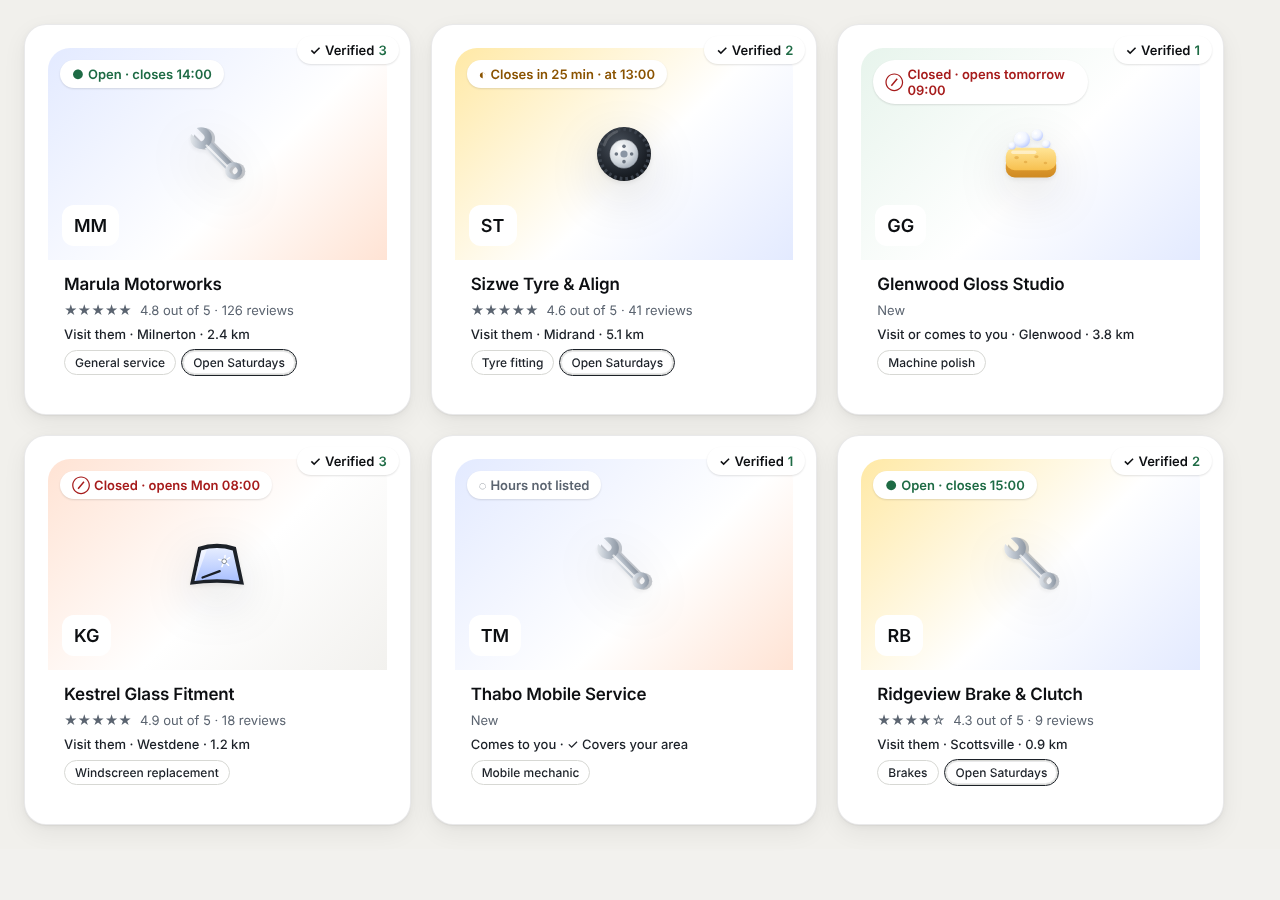
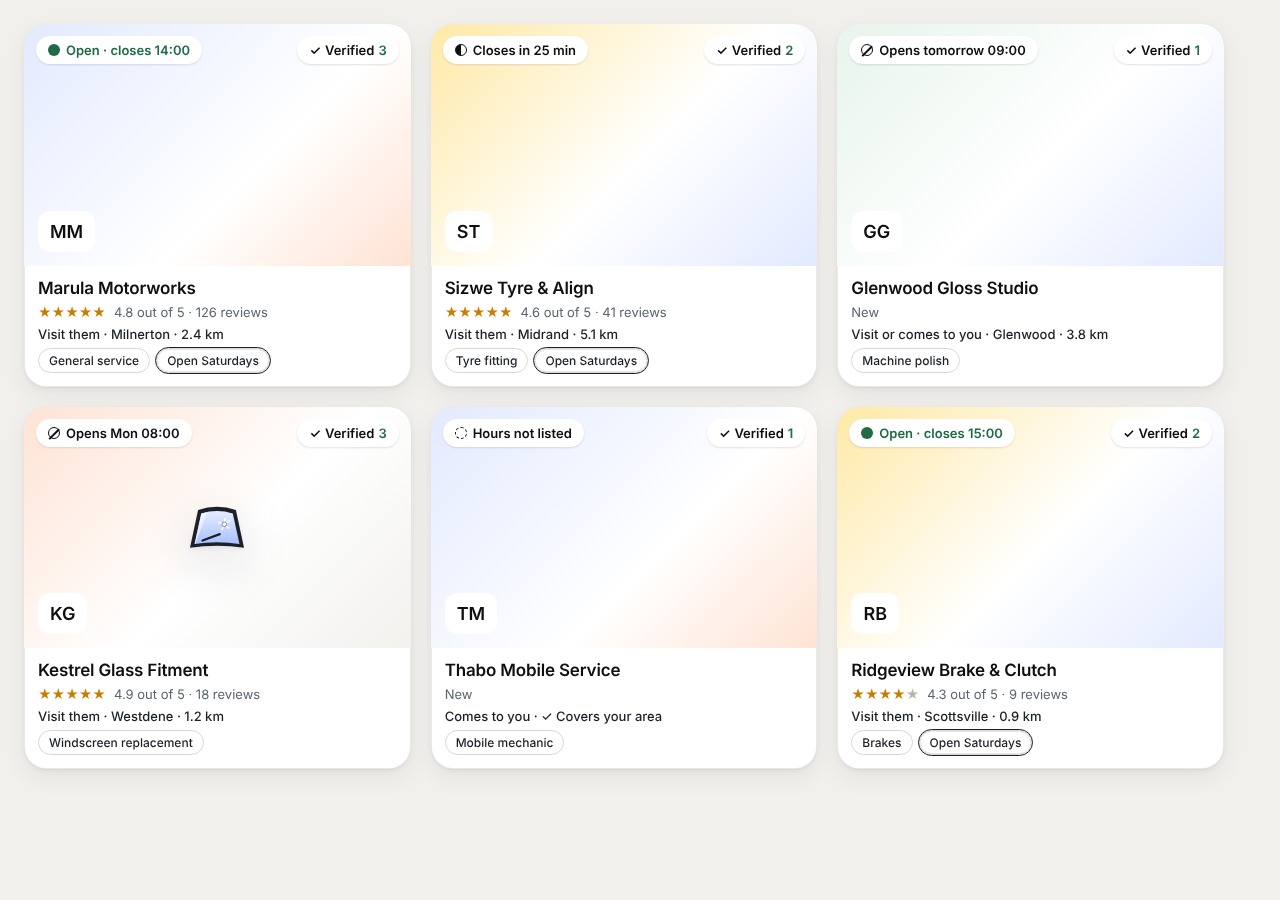
Listing card: Option A corrections from review
The photo runs edge to edge with the card's top radius, and the Verified
disclosure sits on the photo, top-right. Emoji artwork is gone: only the glass
line illustration is shown, other categories show the tint and initials. The
status stays on one line with shorter words and drawn 12 px markers (filled,
half, slashed, hollow). Filled stars are amber, the rest grey, and the body
padding is tighter.

Agent: claude

diff --git a/apps/web/app/sites/ListingCard.tsx b/apps/web/app/sites/ListingCard.tsx
@@ -41,7 +41,10 @@ function distanceText(listing: ListingSummary): string | null {
   return `${listing.distance_km.toFixed(1)} km`;
 }
 
-/** The status marker: a different shape per state, so colour is never the only cue. */
+/**
+ * The open status on the photo: a marker drawn as a shape (filled, half, slashed,
+ * hollow), then the words. Colour is never the only cue.
+ */
 function StatusPill({
   status,
   day,
@@ -49,13 +52,23 @@ function StatusPill({
   status: ReturnType<typeof cardStatus>;
   day: number;
 }) {
-  const kind = status.kind === "closing" ? "closing" : status.kind;
-  const marker = { open: "●", closing: "◐", closed: "⊘", none: "◌" }[kind];
   return (
-    <span className={`cx-openstate ${kind}`}>
-      <span aria-hidden="true">{marker}</span> {statusLabel(status, day)}
+    <span className={`cx-openstate ${status.kind}`}>
+      <span className="marker" aria-hidden="true" />
+      {statusLabel(status, day)}
     </span>
   );
+}
+
+/**
+ * The service artwork for a business without a photo. Only glass has a line
+ * illustration in the repo that matches the mockup; the others show the tint
+ * and initials until their illustrations are exported.
+ */
+export function illustrationFor(categorySlug: string): string | null {
+  const key = topCategoryOf(categorySlug)?.key;
+  if (key !== "glass") return null;
+  return SERVICES.find((s) => s.key === key)?.object ?? null;
 }
 
 /**
@@ -76,8 +89,7 @@ export function ListingCard({
   hours?: readonly HoursRow[];
   now?: Date;
 }) {
-  const key = topCategoryOf(listing.category_slug)?.key ?? "repairs";
-  const icon = SERVICES.find((s) => s.key === key)?.object ?? "";
+  const illustration = illustrationFor(listing.category_slug);
   const tint = tintFor(listing.public_id);
   const rating = reviewRatingText(listing);
   const status = cardStatus(hours, now);
@@ -105,7 +117,9 @@ export function ListingCard({
             />
           ) : (
             <>
-              <img className="obj" src={icon} alt="" />
+              {illustration ? (
+                <img className="obj" src={illustration} alt="" />
+              ) : null}
               <span className="initials" aria-hidden="true">
                 {initialsOf(listing.display_name)}
               </span>

diff --git a/apps/web/app/sites/listing-card.css b/apps/web/app/sites/listing-card.css
@@ -5,6 +5,7 @@
  */
 .cx-lcard {
   position: relative;
+  padding: 0;
   display: flex;
   flex-direction: column;
   border-radius: 22px;
@@ -111,25 +112,47 @@
 .cx-openstate {
   display: inline-flex;
   align-items: center;
-  gap: 4px;
+  gap: 6px;
+  max-width: 100%;
   padding: 6px 12px;
   border-radius: var(--radius-pill);
   background: var(--surface);
   box-shadow: 0 1px 2px rgba(13, 15, 18, 0.12);
   font: 600 13px var(--font-sans);
-  white-space: normal;
+  white-space: nowrap;
+  overflow: hidden;
+  text-overflow: ellipsis;
 }
-.cx-openstate.open {
-  color: var(--ok);
+.cx-openstate .marker {
+  flex: none;
+  width: 12px;
+  height: 12px;
+  border-radius: 50%;
+  box-sizing: border-box;
 }
-.cx-openstate.closing {
-  color: var(--warn);
+.cx-openstate.open .marker {
+  background: currentColor;
 }
-.cx-openstate.closed {
-  color: var(--err);
+.cx-openstate.closing .marker {
+  border: 1.5px solid currentColor;
+  background: linear-gradient(90deg, currentColor 50%, transparent 50%);
 }
-.cx-openstate.none {
-  color: var(--muted);
+.cx-openstate.closed .marker {
+  position: relative;
+  border: 1.5px solid currentColor;
+}
+.cx-openstate.closed .marker::after {
+  content: "";
+  position: absolute;
+  left: 50%;
+  top: -1px;
+  width: 1.5px;
+  height: 14px;
+  background: currentColor;
+  transform: translateX(-50%) rotate(45deg);
+}
+.cx-openstate.none .marker {
+  border: 1.5px dashed currentColor;
 }
 
 /* Verified: a disclosure, top-right, above the link. */
@@ -184,8 +207,8 @@
 /* Body: name, rating, where, then chips. */
 .cx-lcard .body {
   display: grid;
-  gap: 8px;
-  padding: 14px 16px 16px;
+  gap: 6px;
+  padding: 12px 14px 14px;
 }
 .cx-lcard h3 {
   margin: 0;
@@ -240,4 +263,12 @@
   overflow: hidden;
   clip: rect(0 0 0 0);
   white-space: nowrap;
+}
+
+/* Stars: amber for the filled ones, grey for the rest. */
+.rating-stars .on {
+  color: #c77d00;
+}
+.rating-stars .off {
+  color: #b8b4aa;
 }

diff --git a/apps/web/app/catalogue/card-status.test.ts b/apps/web/app/catalogue/card-status.test.ts
@@ -21,7 +21,7 @@ describe("card open status", () => {
     });
     const soon = cardStatus(WEEKDAYS, at("2026-11-26T16:35:00"));
     expect(soon).toEqual({ kind: "closing", closes: "17:00", minutesLeft: 25 });
-    expect(statusLabel(soon, 4)).toBe("Closes in 25 min · at 17:00");
+    expect(statusLabel(soon, 4)).toBe("Closes in 25 min");
   });
 
   it("works across midnight: closing at 23:59 counts as the end of the day", () => {
@@ -51,17 +51,17 @@ describe("card open status", () => {
       day: 1,
       today: false,
     });
-    expect(statusLabel(sunday, 7)).toBe("Closed · opens tomorrow 08:00");
+    expect(statusLabel(sunday, 7)).toBe("Opens tomorrow 08:00");
     // Friday evening: Monday is not tomorrow, so the weekday is named.
     const friday = cardStatus(monday, at("2026-11-27T18:00:00"));
-    expect(statusLabel(friday, 5)).toBe("Closed · opens Mon 08:00");
+    expect(statusLabel(friday, 5)).toBe("Opens Mon 08:00");
   });
 
   it("says 'today' before the day's opening, and 'tomorrow' after closing", () => {
     const after = cardStatus(WEEKDAYS, at("2026-11-26T18:00:00"));
-    expect(statusLabel(after, 4)).toBe("Closed · opens tomorrow 08:00");
+    expect(statusLabel(after, 4)).toBe("Opens tomorrow 08:00");
     const early = cardStatus(WEEKDAYS, at("2026-11-26T06:00:00"));
-    expect(statusLabel(early, 4)).toBe("Closed · opens today 08:00");
+    expect(statusLabel(early, 4)).toBe("Opens today 08:00");
   });
 
   it("is closed all day on a day with no hours, and opens on the next listed day", () => {

diff --git a/apps/web/app/catalogue/card-status.ts b/apps/web/app/catalogue/card-status.ts
@@ -55,17 +55,20 @@ export function cardStatus(hours: readonly HoursRow[], now: Date): CardStatus {
   return { kind: "none" };
 }
 
-/** The words on the card: "Open · closes 17:30", "Closes in 25 min · at 13:00". */
+/**
+ * The words on the card, kept short so the status stays on one line:
+ * "Open · closes 17:30", "Closes in 25 min", "Opens tomorrow 09:00", "Opens Mon 08:00".
+ */
 export function statusLabel(status: CardStatus, day: number): string {
   if (status.kind === "open") return `Open · closes ${status.closes}`;
   if (status.kind === "closing")
-    return `Closes in ${String(status.minutesLeft)} min · at ${status.closes}`;
+    return `Closes in ${String(status.minutesLeft)} min`;
   if (status.kind === "closed") {
-    if (status.today) return `Closed · opens today ${status.opens}`;
+    if (status.today) return `Opens today ${status.opens}`;
     const tomorrow = (day % 7) + 1 === status.day;
     return tomorrow
-      ? `Closed · opens tomorrow ${status.opens}`
-      : `Closed · opens ${dayShort(status.day)} ${status.opens}`;
+      ? `Opens tomorrow ${status.opens}`
+      : `Opens ${dayShort(status.day)} ${status.opens}`;
   }
   return "Hours not listed";
 }

diff --git a/apps/web/app/ui/public/ListingResult.tsx b/apps/web/app/ui/public/ListingResult.tsx
@@ -40,8 +40,13 @@ export function RatingLine({
   return (
     <span className={className}>
       {rated ? (
-        <span className="stars" aria-hidden="true">
-          {ratingStars(listing.rating_avg ?? 0)}{" "}
+        <span className="rating-stars" aria-hidden="true">
+          <span className="on">
+            {"★".repeat(Math.round(listing.rating_avg ?? 0))}
+          </span>
+          <span className="off">
+            {"★".repeat(5 - Math.round(listing.rating_avg ?? 0))}
+          </span>{" "}
         </span>
       ) : null}
       {text}
